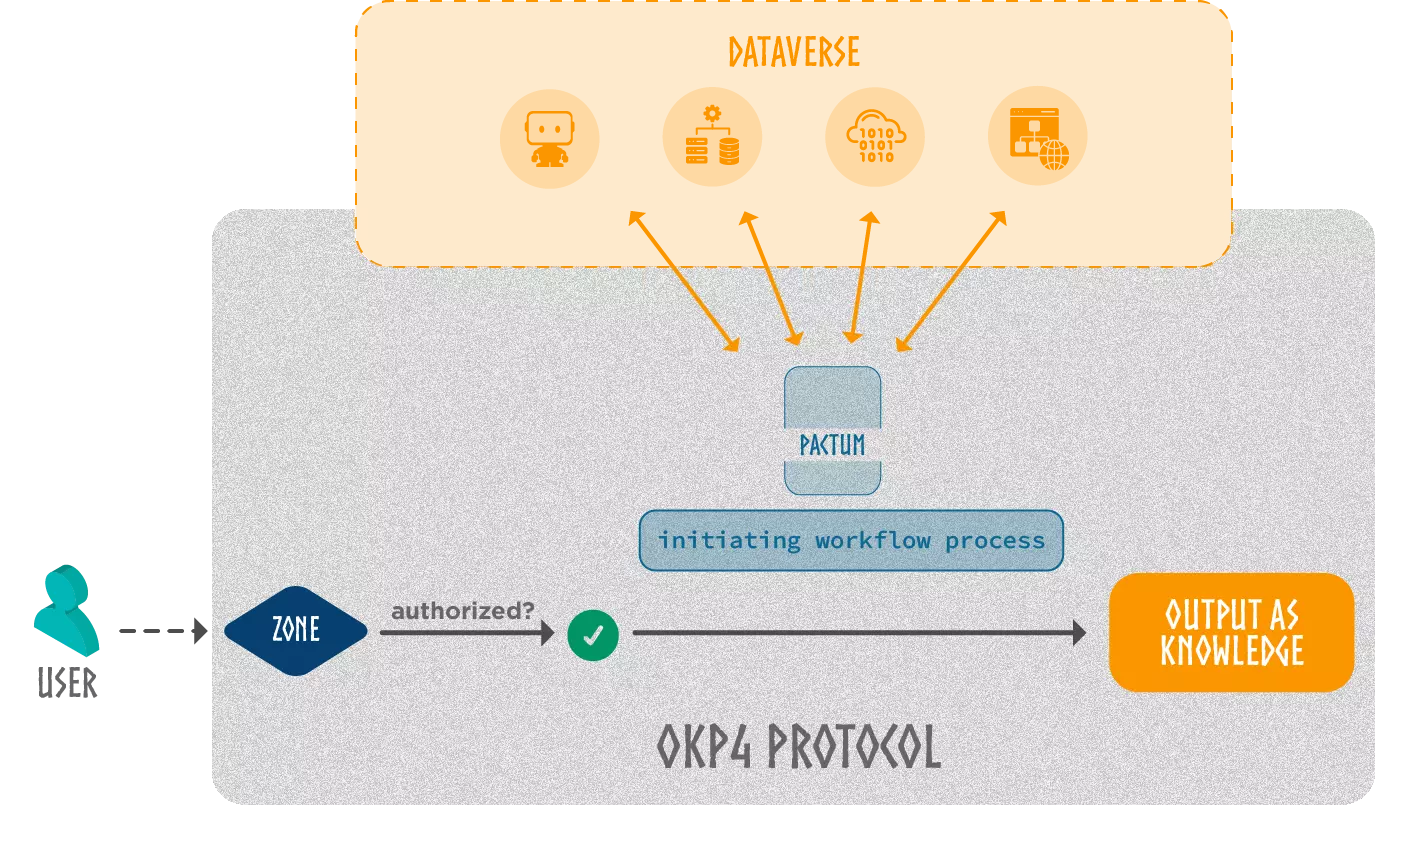
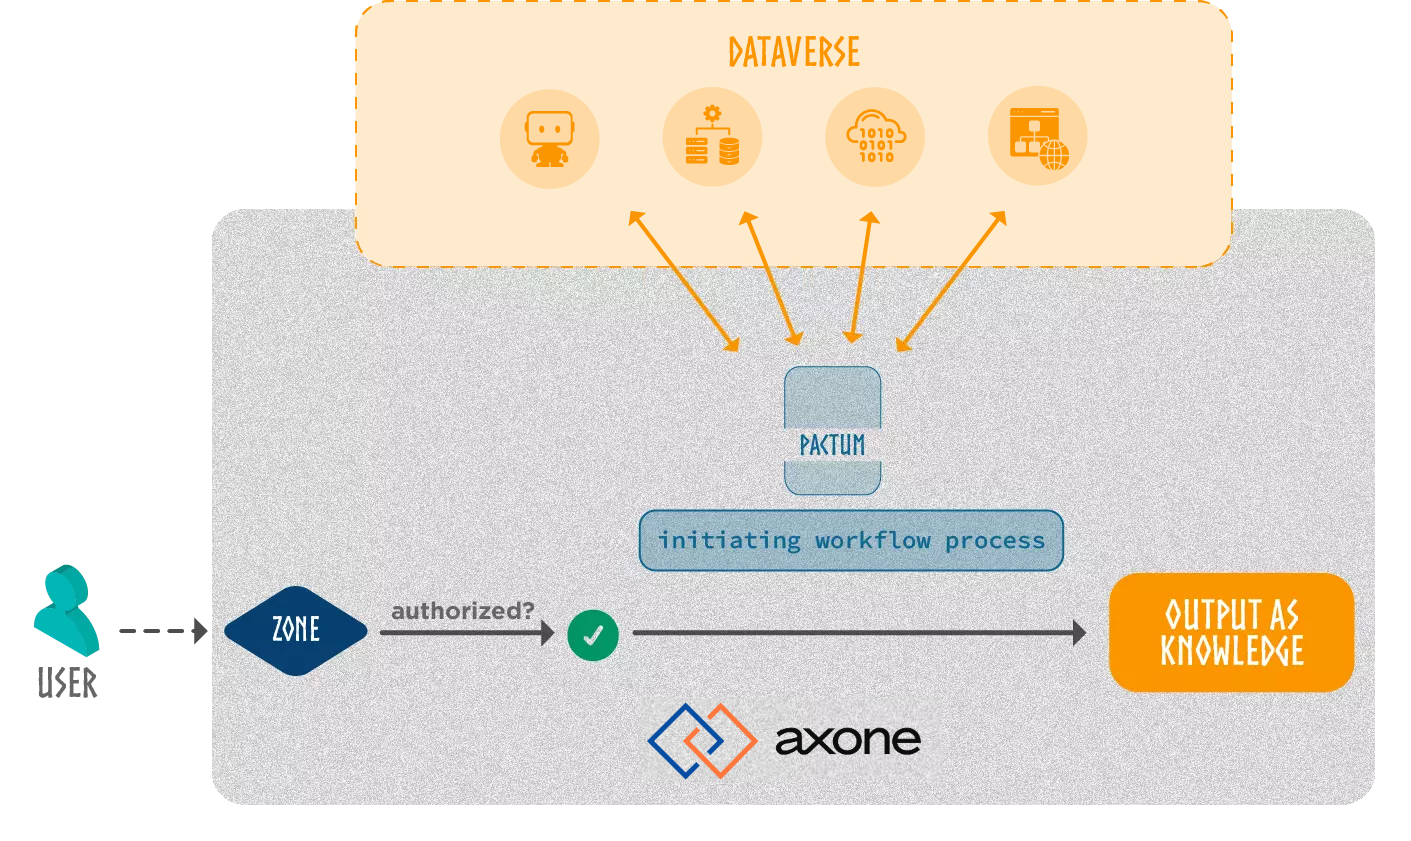
feat: replace images

Changed region(s): [[0.4366, 0.8347, 0.686, 0.9275]]

diff --git a/docs/whitepaper/introduction.md b/docs/whitepaper/introduction.md
@@ -24,7 +24,7 @@ Knowledge, in its various forms, is a powerful catalyst for progress and innovat
 The creation of knowledge is fundamentally linked to the resources at our disposal. At the very foundation of this process lies data - the raw, unfiltered observations collected by humans or machines. Data acts as the initial resource, the raw material that serve as the starting point of our understanding of the world. However, data in itself remains unintelligible, a jumble of signs and signals, until it is put through a process of interpretation and contextualization. It is here that the second resource, digital services, come into play.
 
 **Data**
-Data encompass any form of discrete or continuous values, structured or not, that may be further interpreted.. This includes anything from sensor readings from IoT devices, financial data, corporate data, user-generated content, and much more. Data can be seen as the smallest units of factual information that can be used as a basis for calculation, reasoning, or discussion. Data can range from abstract ideas to concrete measurements and touches virtually every aspect of our lives even more now as  our world becomes increasingly digitized and connected.
+Data encompass any form of discrete or continuous values, structured or not, that may be further interpreted.. This includes anything from sensor readings from IoT devices, financial data, corporate data, user-generated content, and much more. Data can be seen as the smallest units of factual information that can be used as a basis for calculation, reasoning, or discussion. Data can range from abstract ideas to concrete measurements and touches virtually every aspect of our lives even more now as our world becomes increasingly digitized and connected.
 
 **Digital Services**
 On the other hand, digital services represent the cognitive aspect of our digital resources, the brain that interprets and leverages these observations to generate knowledge. Like our brain needs to process sensory inputs to make sense of our surroundings, datasets need to be processed to extract valuable knowledge from them. These digital services encompass all the algorithms, models, and software that enable us to harness the power of data. They address the question of processing time, transforming raw, unstructured, and often overwhelming datasets into digestible, actionable information. The variety of these services is as vast as the data they process, ranging from simple data sorting algorithms to complex machine learning models.
@@ -111,4 +111,4 @@ Interoperability is essential to facilitate data and knowledge exchange, promote
 
 This is where the protocol comes in. Axone aspire to interconnect a multitude of datasets and digital services to generate knowledge, all the while respecting the rules of consent and retribution chosen by the providers. In doing so, we believe that we can democratize access to knowledge, decentralize informational power, and build a governance infrastructure for digital resources that is truly fair and sustainable.
 
-![intro-6-okp4](/img/content/whitepaper/intro-6-okp4.webp)
+![intro-6](/img/content/whitepaper/intro-6.webp)
